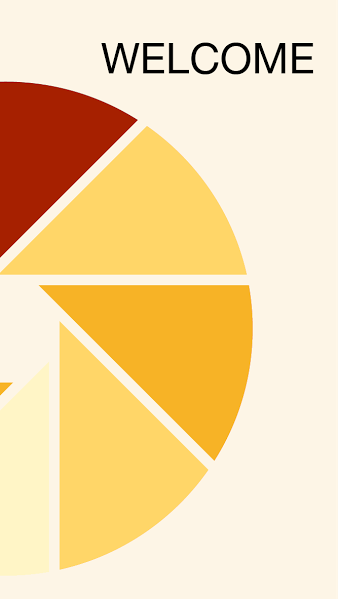
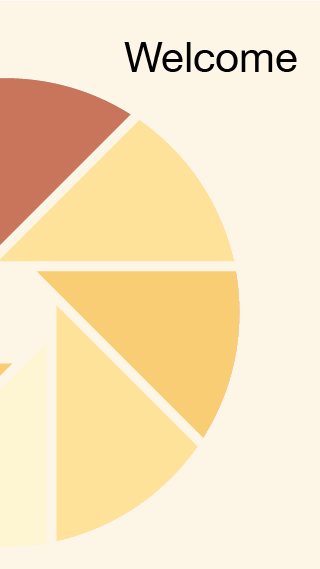
Updated images (expect more images tomorrow). Current tab is now highlighted when selected. Application opens to the photo gallery

diff --git a/App/Resources/alloy/styles/photoGallery.js b/App/Resources/alloy/styles/photoGallery.js
@@ -1,1 +1,1 @@
-module.exports = [{"isApi":true,"priority":1000.0041,"key":"Label","style":{width:Ti.UI.SIZE,height:Ti.UI.SIZE,top:20,color:"#000",}},{"isClass":true,"priority":10000.004,"key":"container","style":{top:10,backgroundColor:Alloy.CFG.defaultBackColor,layout:"vertical",}},{"isClass":true,"priority":10000.0048,"key":"buttonContainer","style":{width:"25%",verticalAlign:Ti.UI.TEXT_VERTICAL_ALIGNMENT_CENTER,backgroundColor:Alloy.CFG.emphasisColor,color:"#ffffff",}},{"isClass":true,"priority":10000.0049,"key":"selected","style":{backgroundColor:Alloy.CFG.highlightColor,color:"#000000",}},{"isClass":true,"priority":10000.005,"key":"navButt","style":{width:45,height:45,top:8,}},{"isId":true,"priority":100000.0042,"key":"tableView","style":{top:0,backgroundColor:Alloy.CFG.defaultBackColor,}},{"isId":true,"priority":100000.0043,"key":"uploadBar","style":{height:40,backgroundColor:Alloy.CFG.highlightColor,width:"100%",}},{"isId":true,"priority":100000.0044,"key":"back","style":{left:5,}},{"isId":true,"priority":100000.0045,"key":"placeName","style":{right:60,}},{"isId":true,"priority":100000.0046,"key":"uploadPhoto","style":{right:5,backgroundImage:"/images/camera-icon.png",}},{"isId":true,"priority":100000.0047,"key":"navigation","style":{height:60,width:"100%",}},{"isId":true,"priority":100000.0051,"key":"globalContainer","style":{left:0,}},{"isId":true,"priority":100000.0052,"key":"global","style":{backgroundImage:"/images/world-icon.png",}},{"isId":true,"priority":100000.0053,"key":"nearbyContainer","style":{left:"25%",}},{"isId":true,"priority":100000.0054,"key":"nearby","style":{backgroundImage:"/images/nearby.png",}},{"isId":true,"priority":100000.0055,"key":"myPlaceContainer","style":{left:"50%",}},{"isId":true,"priority":100000.0056,"key":"myPlace","style":{backgroundImage:"/images/current-location.png",}},{"isId":true,"priority":100000.0057,"key":"myPhotosContainer","style":{left:"75%",}},{"isId":true,"priority":100000.0058,"key":"myPhotos","style":{backgroundImage:"/images/my-photos.png",}}];
+module.exports = [{"isApi":true,"priority":1000.0041,"key":"Label","style":{width:Ti.UI.SIZE,height:Ti.UI.SIZE,top:20,color:"#000",}},{"isClass":true,"priority":10000.004,"key":"container","style":{top:10,layout:"vertical",backgroundImage:"/images/homepage-background.png",}},{"isClass":true,"priority":10000.0048,"key":"buttonContainer","style":{width:"25%",verticalAlign:Ti.UI.TEXT_VERTICAL_ALIGNMENT_CENTER,backgroundColor:Alloy.CFG.lightYellow,color:"#ffffff",}},{"isClass":true,"priority":10000.0049,"key":"selected","style":{backgroundColor:Alloy.CFG.darkYellow,color:"#000000",}},{"isClass":true,"priority":10000.005,"key":"navButt","style":{width:45,height:45,top:8,}},{"isId":true,"priority":100000.0042,"key":"tableView","style":{top:0,backgroundColor:"transparent",}},{"isId":true,"priority":100000.0043,"key":"uploadBar","style":{height:40,backgroundColor:Alloy.CFG.darkRed,width:"100%",}},{"isId":true,"priority":100000.0044,"key":"back","style":{left:5,}},{"isId":true,"priority":100000.0045,"key":"placeName","style":{right:60,}},{"isId":true,"priority":100000.0046,"key":"uploadPhoto","style":{right:5,backgroundImage:"/images/camera-icon.png",}},{"isId":true,"priority":100000.0047,"key":"navigation","style":{height:60,width:"100%",}},{"isId":true,"priority":100000.0051,"key":"globalContainer","style":{left:0,backgrondColor:Alloy.CFG.darkYellow,}},{"isId":true,"priority":100000.0052,"key":"global","style":{backgroundImage:"/images/world-icon.png",}},{"isId":true,"priority":100000.0053,"key":"nearbyContainer","style":{left:"25%",}},{"isId":true,"priority":100000.0054,"key":"nearby","style":{backgroundImage:"/images/nearby.png",}},{"isId":true,"priority":100000.0055,"key":"myPlaceContainer","style":{left:"50%",}},{"isId":true,"priority":100000.0056,"key":"myPlace","style":{backgroundImage:"/images/current-location.png",}},{"isId":true,"priority":100000.0057,"key":"myPhotosContainer","style":{left:"75%",}},{"isId":true,"priority":100000.0058,"key":"myPhotos","style":{backgroundImage:"/images/my-photos.png",}}];

diff --git a/App/Resources/alloy/controllers/photoGallery.js b/App/Resources/alloy/controllers/photoGallery.js
@@ -24,12 +24,21 @@ function Controller() {
         });
         setTab(3);
     }
+    function resetColors() {
+        var bgc = Alloy.CFG.lightYellow;
+        $.globalContainer.backgroundColor = bgc;
+        $.nearbyContainer.backgroundColor = bgc;
+        $.myPlaceContainer.backgroundColor = bgc;
+        $.myPhotosContainer.backgroundColor = bgc;
+    }
     function setTab(tabnum, text) {
         Ti.API.info(tabnum, JSON.stringify(self.currentTab));
+        resetColors();
         if (0 === tabnum) self.currentTab = $.globalContainer; else if (1 == tabnum) self.currentTab = $.nearbyContainer; else if (2 == tabnum) {
             self.currentTab = $.myPlaceContainer;
             text && $.myPlace.setText(text);
         } else 3 == tabnum && (self.currentTab = $.myPhotosContainer);
+        self.currentTab.backgroundColor = Alloy.CFG.darkYellow;
         var here = Ti.App.Properties.getObject("currentPlace");
         here && here.name && $.placeName.setText(here.name);
     }
@@ -140,14 +149,14 @@ function Controller() {
     var __defers = {};
     $.__views.photoGallery = Ti.UI.createWindow({
         top: 10,
-        backgroundColor: Alloy.CFG.defaultBackColor,
         layout: "vertical",
+        backgroundImage: "/images/homepage-background.png",
         id: "photoGallery"
     });
     $.__views.photoGallery && $.addTopLevelView($.__views.photoGallery);
     $.__views.uploadBar = Ti.UI.createView({
         height: 40,
-        backgroundColor: Alloy.CFG.highlightColor,
+        backgroundColor: Alloy.CFG.darkRed,
         width: "100%",
         id: "uploadBar"
     });
@@ -188,9 +197,10 @@ function Controller() {
     $.__views.globalContainer = Ti.UI.createView({
         width: "25%",
         verticalAlign: Ti.UI.TEXT_VERTICAL_ALIGNMENT_CENTER,
-        backgroundColor: Alloy.CFG.emphasisColor,
+        backgroundColor: Alloy.CFG.lightYellow,
         color: "#ffffff",
         left: 0,
+        backgrondColor: Alloy.CFG.darkYellow,
         id: "globalContainer"
     });
     $.__views.navigation.add($.__views.globalContainer);
@@ -207,7 +217,7 @@ function Controller() {
     $.__views.nearbyContainer = Ti.UI.createView({
         width: "25%",
         verticalAlign: Ti.UI.TEXT_VERTICAL_ALIGNMENT_CENTER,
-        backgroundColor: Alloy.CFG.emphasisColor,
+        backgroundColor: Alloy.CFG.lightYellow,
         color: "#ffffff",
         left: "25%",
         id: "nearbyContainer"
@@ -226,7 +236,7 @@ function Controller() {
     $.__views.myPlaceContainer = Ti.UI.createView({
         width: "25%",
         verticalAlign: Ti.UI.TEXT_VERTICAL_ALIGNMENT_CENTER,
-        backgroundColor: Alloy.CFG.emphasisColor,
+        backgroundColor: Alloy.CFG.lightYellow,
         color: "#ffffff",
         left: "50%",
         id: "myPlaceContainer"
@@ -245,7 +255,7 @@ function Controller() {
     $.__views.myPhotosContainer = Ti.UI.createView({
         width: "25%",
         verticalAlign: Ti.UI.TEXT_VERTICAL_ALIGNMENT_CENTER,
-        backgroundColor: Alloy.CFG.emphasisColor,
+        backgroundColor: Alloy.CFG.lightYellow,
         color: "#ffffff",
         left: "75%",
         id: "myPhotosContainer"
@@ -263,7 +273,7 @@ function Controller() {
     $.__views.myPhotosContainer.add($.__views.myPhotos);
     $.__views.tableView = Ti.UI.createTableView({
         top: 0,
-        backgroundColor: Alloy.CFG.defaultBackColor,
+        backgroundColor: "transparent",
         id: "tableView"
     });
     $.__views.photoGallery.add($.__views.tableView);

diff --git a/App/Resources/alloy/styles/auth.js b/App/Resources/alloy/styles/auth.js
@@ -1,1 +1,1 @@
-module.exports = [{"isApi":true,"priority":1000.0003,"key":"TextField","style":{top:10,textAlign:Ti.UI.TEXT_ALIGNMENT_CENTER,autocorrect:false,width:250,autocapitalization:Ti.UI.TEXT_AUTOCAPITALIZATION_NONE,}},{"isApi":true,"priority":1000.0004,"key":"Label","style":{top:10,width:Ti.UI.SIZE,}},{"isClass":true,"priority":10000.0002,"key":"container","style":{backgroundColor:"white",layout:"vertical",}},{"isId":true,"priority":100000.0005,"key":"title","style":{top:30,}},{"isId":true,"priority":100000.0006,"key":"createAccount","style":{top:100,}}];
+module.exports = [{"isApi":true,"priority":1000.0003,"key":"TextField","style":{top:10,textAlign:Ti.UI.TEXT_ALIGNMENT_CENTER,autocorrect:false,width:250,autocapitalization:Ti.UI.TEXT_AUTOCAPITALIZATION_NONE,}},{"isApi":true,"priority":1000.0004,"key":"Label","style":{top:10,width:Ti.UI.SIZE,}},{"isClass":true,"priority":10000.0002,"key":"container","style":{backgroundColor:"white",layout:"vertical",backgroundImage:"/images/welcome-to-background.png",}},{"isId":true,"priority":100000.0005,"key":"title","style":{top:30,}},{"isId":true,"priority":100000.0006,"key":"createAccount","style":{top:100,}}];

diff --git a/App/app/controllers/photoGallery.js b/App/app/controllers/photoGallery.js
@@ -43,16 +43,28 @@ function myPhotosButt() {
 	setTab(3);
 }
 
+function resetColors(){
+	var bgc = Alloy.CFG.lightYellow; 
+	$.globalContainer.backgroundColor = bgc;
+	$.nearbyContainer.backgroundColor = bgc;
+	$.myPlaceContainer.backgroundColor = bgc;
+	$.myPhotosContainer.backgroundColor = bgc;
+}
+
 function setTab(tabnum, text) {
 	Ti.API.info(tabnum, JSON.stringify(self.currentTab));
 	// $.removeClass(self.currentTab, 'selected');
 	
+	resetColors();
 	if (tabnum === 0) {
 		self.currentTab = $.globalContainer;
+		//$.globalContainer.backgroundColor = Alloy.CFG.darkYellow;
 	} else if (tabnum == 1) {
 		self.currentTab = $.nearbyContainer;
+		//$.nearbyContainer.backgroundColor = Alloy.CFG.darkYellow;
 	} else if (tabnum == 2) {
 		self.currentTab = $.myPlaceContainer;
+		//$.myPlaceContainer.backgroundColor = Alloy.CFG.darkYellow;
 		if (text) {
 			$.myPlace.setText(text);
 		}
@@ -60,6 +72,8 @@ function setTab(tabnum, text) {
 		self.currentTab = $.myPhotosContainer;
 	} else {
 	}
+	
+	self.currentTab.backgroundColor = Alloy.CFG.darkYellow;
 
 	// $.addClass(self.currentTab, 'selected');
 

diff --git a/App/Resources/alloy/styles/galleryRow.js b/App/Resources/alloy/styles/galleryRow.js
@@ -1,1 +1,1 @@
-module.exports = [{"isId":true,"priority":100000.0017,"key":"rowView","style":{height:80,backgroundColor:Alloy.CFG.defaultBackColor,}},{"isId":true,"priority":100000.0018,"key":"userName","style":{right:20,top:20,}},{"isId":true,"priority":100000.0019,"key":"placeName","style":{right:20,top:50,}},{"isId":true,"priority":100000.002,"key":"uploadDate","style":{left:5,bottom:2,font:{fontSize:10,},}},{"isId":true,"priority":100000.0021,"key":"imageView","style":{left:5,top:4,}}];
+module.exports = [{"isId":true,"priority":100000.0017,"key":"rowView","style":{height:80,backgroundColor:"transparent",}},{"isId":true,"priority":100000.0018,"key":"userName","style":{right:20,top:20,}},{"isId":true,"priority":100000.0019,"key":"placeName","style":{right:20,top:50,}},{"isId":true,"priority":100000.002,"key":"uploadDate","style":{left:5,bottom:2,font:{fontSize:10,},}},{"isId":true,"priority":100000.0021,"key":"imageView","style":{left:5,top:4,}}];

diff --git a/App/Resources/alloy/CFG.js b/App/Resources/alloy/CFG.js
@@ -1,1 +1,1 @@
-module.exports={"dependencies":{},"nearRadius":200,"defaultBackColor":"#fdf5e6","emphasisColor":"#a62000","highlightColor":"#f7b326","serverURL":"http://localhost:3000/","geolocPurpose":"Location is needed for all photo uploads and to find content relevant to the user.","placesAPIKEY":"AIzaSyArT0aKwmkYczPWImIJuChUQozmDzEE0eM"};
+module.exports={"dependencies":{},"nearRadius":200,"defaultBackColor":"#fdf5e6","emphasisColor":"#a62000","highlightColor":"#f7b326","lightYellow":"#FFD668","whiteYellow":"#FFF5C6","darkYellow":"#F7B326","darkRed":"#A62000","serverURL":"http://localhost:3000/","geolocPurpose":"Location is needed for all photo uploads and to find content relevant to the user.","placesAPIKEY":"AIzaSyArT0aKwmkYczPWImIJuChUQozmDzEE0eM"};

diff --git a/App/Resources/alloy/controllers/index.js b/App/Resources/alloy/controllers/index.js
@@ -91,10 +91,9 @@ function Controller() {
         $.title.text = titleHeader(user.username);
         LocationUtil.checkForLocationUpdate();
     });
-    Ti.App.Properties.removeProperty("authInfo");
     if (Ti.App.Properties.getObject("authInfo", false)) {
         Ti.API.info("authInfo property found, opening home page");
-        $.title.text = titleHeader(Ti.App.Properties.getObject("authInfo").username);
+        openPhotoOpts();
     } else {
         Ti.API.info("No authInfo property found");
         openUserOptions();

diff --git a/App/app/controllers/index.js b/App/app/controllers/index.js
@@ -50,8 +50,6 @@ Ti.App.addEventListener('signIn', function(e) {
 	LocationUtil.checkForLocationUpdate();
 });
 
-Ti.App.Properties.removeProperty('authInfo');
-
 if (!Ti.App.Properties.getObject('authInfo', false)) {
 	Ti.API.info('No authInfo property found');
 	openUserOptions();
@@ -59,5 +57,5 @@ if (!Ti.App.Properties.getObject('authInfo', false)) {
 } else {
 	Ti.API.info('authInfo property found, opening home page');
 
-	$.title.text = titleHeader(Ti.App.Properties.getObject('authInfo').username);
+	openPhotoOpts();
 }

diff --git a/App/Resources/iphone/alloy/CFG.js b/App/Resources/iphone/alloy/CFG.js
@@ -4,6 +4,10 @@ module.exports = {
     defaultBackColor: "#fdf5e6",
     emphasisColor: "#a62000",
     highlightColor: "#f7b326",
+    lightYellow: "#FFD668",
+    whiteYellow: "#FFF5C6",
+    darkYellow: "#F7B326",
+    darkRed: "#A62000",
     serverURL: "http://localhost:3000/",
     geolocPurpose: "Location is needed for all photo uploads and to find content relevant to the user.",
     placesAPIKEY: "AIzaSyArT0aKwmkYczPWImIJuChUQozmDzEE0eM"

diff --git a/App/Resources/alloy/controllers/galleryRow.js b/App/Resources/alloy/controllers/galleryRow.js
@@ -19,7 +19,7 @@ function Controller() {
     var __defers = {};
     $.__views.rowView = Ti.UI.createTableViewRow({
         height: 80,
-        backgroundColor: Alloy.CFG.defaultBackColor,
+        backgroundColor: "transparent",
         id: "rowView"
     });
     $.__views.rowView && $.addTopLevelView($.__views.rowView);

diff --git a/App/Resources/alloy/controllers/auth.js b/App/Resources/alloy/controllers/auth.js
@@ -22,6 +22,7 @@ function Controller() {
     $.__views.auth = Ti.UI.createWindow({
         backgroundColor: "white",
         layout: "vertical",
+        backgroundImage: "/images/welcome-to-background.png",
         id: "auth"
     });
     $.__views.auth && $.addTopLevelView($.__views.auth);
